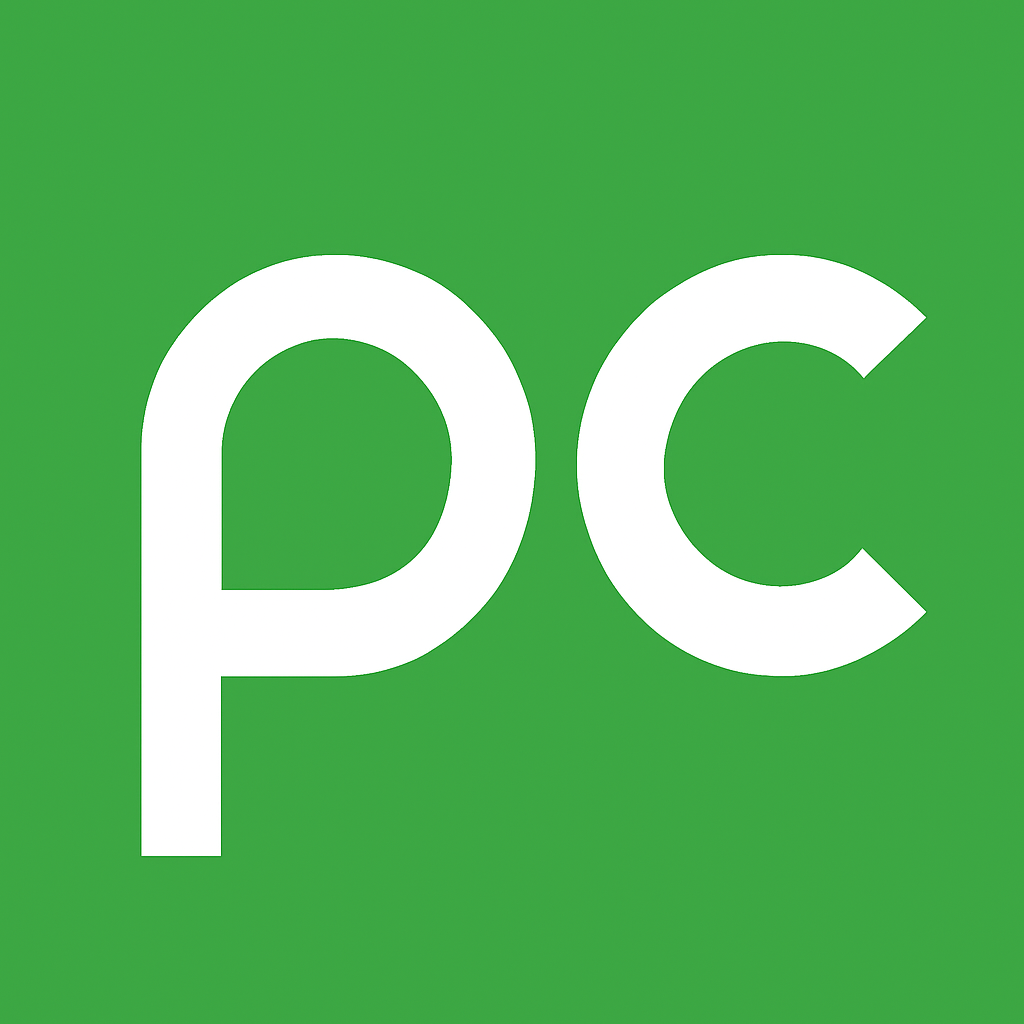
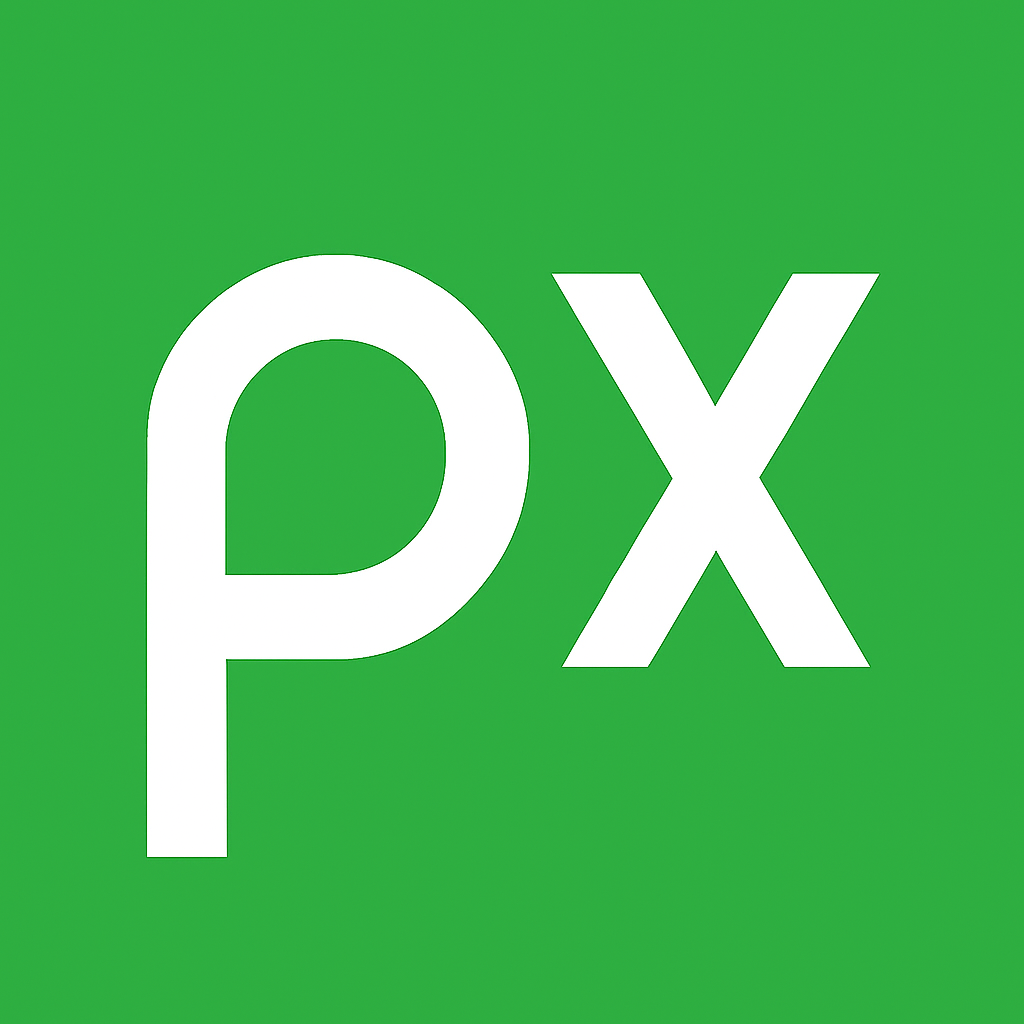
Updating

diff --git a/pixabay_react/src/Component/Page2Search/Page2Search.jsx b/pixabay_react/src/Component/Page2Search/Page2Search.jsx
@@ -106,7 +106,7 @@ const Page2Search = () => {
     }, [inView])
 
     useEffect(() => {
-        document.title = `${(data && data.pages[0].total > 0) ? `${data.pages[0].total.toLocaleString("en-IN")} - Free ${text.trim().replace(/\s+/g , ' ').split(" ").map((ele)=> ele.substring(0,1).toUpperCase()+ele.substring(1)).join(" ")} ${cat.slice(0, 1).toUpperCase() + cat.slice(1)} on Pixaclone` : `Free ${cat.slice(0, 1).toUpperCase() + cat.slice(1)} on Pixaclone`}`;
+        document.title = `${(data && data.pages[0].total > 0) ? `${data.pages[0].total.toLocaleString("en-IN")} - Free ${text.trim().replace(/\s+/g , ' ').split(" ").map((ele)=> ele.substring(0,1).toUpperCase()+ele.substring(1)).join(" ")} ${cat.slice(0, 1).toUpperCase() + cat.slice(1)} on Pixora` : `Free ${cat.slice(0, 1).toUpperCase() + cat.slice(1)} on Pixora`}`;
     }, [loc.pathname, data])
 
     useEffect(() => {

diff --git a/pixabay_react/src/Component/Page3/Page3.jsx b/pixabay_react/src/Component/Page3/Page3.jsx
@@ -92,7 +92,7 @@ const Page3 = () => {
   }, [authTrace])
 
   useEffect(() => {
-    document.title = `${(singleData && singleData.total > 0) ? `${singleData?.hits[0]?.tags.split(",").slice(0,3).join("").split(" ").map((ele)=> ele.substring(0,1).toUpperCase() + ele.substring(1)).join(" ")} - Free ${cat.slice(0, 1).toUpperCase() + cat.slice(1)} on Pixaclone` : `Free ${cat.slice(0, 1).toUpperCase() + cat.slice(1)}`}`;
+    document.title = `${(singleData && singleData.total > 0) ? `${singleData?.hits[0]?.tags.split(",").slice(0,3).join("").split(" ").map((ele)=> ele.substring(0,1).toUpperCase() + ele.substring(1)).join(" ")} - Free ${cat.slice(0, 1).toUpperCase() + cat.slice(1)} on Pixora` : `Free ${cat.slice(0, 1).toUpperCase() + cat.slice(1)}`}`;
   }, [loc.pathname, singleData])
 
   useEffect(() => {

diff --git a/pixabay_react/src/Component/Page2/Page2.jsx b/pixabay_react/src/Component/Page2/Page2.jsx
@@ -94,7 +94,7 @@ const Page2 = () => {
     }, [inView , isFetching])
 
     useEffect(() => {
-        document.title = `${(data && data.pages[0].total > 0) ? `${data.pages[0].total.toLocaleString("en-IN")} - Free ${cat.slice(0, 1).toUpperCase() + cat.slice(1)} on Pixaclone` : `Free ${cat.slice(0, 1).toUpperCase() + cat.slice(1)} on Pixaclone`}`;
+        document.title = `${(data && data.pages[0].total > 0) ? `${data.pages[0].total.toLocaleString("en-IN")} - Free ${cat.slice(0, 1).toUpperCase() + cat.slice(1)} on Pixora` : `Free ${cat.slice(0, 1).toUpperCase() + cat.slice(1)} on Pixora`}`;
     }, [loc.pathname, data])
 
     useEffect(() => {

diff --git a/pixabay_react/src/Component/Page3/Header.jsx b/pixabay_react/src/Component/Page3/Header.jsx
@@ -126,10 +126,10 @@ const Header = ({ safeSearch, setSafeSearch, authTrace, setAuthTrace, user, setU
             <header>
                 <NavLink to={'/'} className="logo">
                     {size <= 750 ? <div className="short">
-                        pc
+                        px
                     </div> :
                         <div className="long">
-                            Pixaclone
+                            Pixora
                         </div>}
                 </NavLink>
                 {size > 330 && <div className="search">

diff --git a/pixabay_react/src/Component/Page2/Header.jsx b/pixabay_react/src/Component/Page2/Header.jsx
@@ -156,10 +156,10 @@ const Header = ({ safeSearch, setSafeSearch }) => {
             <header>
                 <NavLink to={'/'} className="logo">
                     {size <= 750 ? <div className="short">
-                        pc
+                        px
                     </div> :
                         <div className="long">
-                            Pixaclone
+                            Pixora
                         </div>}
                 </NavLink>
                 {size > 330 && <div className="search">

diff --git a/pixabay_react/src/Component/Page2Search/Header.jsx b/pixabay_react/src/Component/Page2Search/Header.jsx
@@ -161,10 +161,10 @@ const Header = ({ safeSearch, setSafeSearch }) => {
             <header>
                 <NavLink to={'/'} className="logo">
                     {size <= 750 ? <div className="short">
-                        pc
+                        px
                     </div> :
                         <div className="long">
-                            Pixaclone
+                            Pixora
                         </div>}
                 </NavLink>
                 {size > 330 && <div className="search">

diff --git a/pixabay_react/src/Component/Page1/Hero.jsx b/pixabay_react/src/Component/Page1/Hero.jsx
@@ -243,10 +243,10 @@ const Hero = ({ setSafeSearch, safeSearch }) => {
             <header>
                 <NavLink to={'/'} className="logo">
                     {size <= 750 ? <div className="short">
-                        pc
+                        px
                     </div> :
                         <div className="long">
-                            Pixaclone
+                            Pixora
                         </div>}
                 </NavLink>
                 {size > 330 && <div className="search">

diff --git a/pixabay_react/src/Component/Page1/Main.jsx b/pixabay_react/src/Component/Page1/Main.jsx
@@ -1,7 +1,6 @@
-import React, { useContext, useEffect, useState } from 'react'
+import { useEffect, useState } from 'react'
 import '../../CSS/Page1/main.css'
-import { Link, useLocation, useNavigate, useSearchParams } from 'react-router-dom'
-import { GlobalContext } from '../../App'
+import { Link, useLocation, useSearchParams } from 'react-router-dom'
 import useWindowSize from '../useWindowSize'
 
 const Main = ({ data }) => {

diff --git a/pixabay_react/src/Component/Page1/Footer.jsx b/pixabay_react/src/Component/Page1/Footer.jsx
@@ -5,7 +5,7 @@ import '../../CSS/Page1/footer.css'
 const Footer = () => {
     return <footer className='footer'>
         <h2>
-            <Link className='link' to={'/'}>Pixaclone</Link>
+            <Link className='link' to={'/'}>Pixora</Link>
         </h2>
         <div className="social">
             <NavLink className={"icon insta"} to={'https://www.instagram.com/pixabay/'} target='_blank'>

diff --git a/pixabay_react/index.html b/pixabay_react/index.html
@@ -13,7 +13,7 @@
 
   <link rel="icon" type="image/png" href="/favicon.png" />
   <link href="https://cdn.jsdelivr.net/npm/remixicon@4.5.0/fonts/remixicon.css" rel="stylesheet" />
-  <title>Pixaclone</title>
+  <title>Pixora</title>
 </head>
 
 <body>
